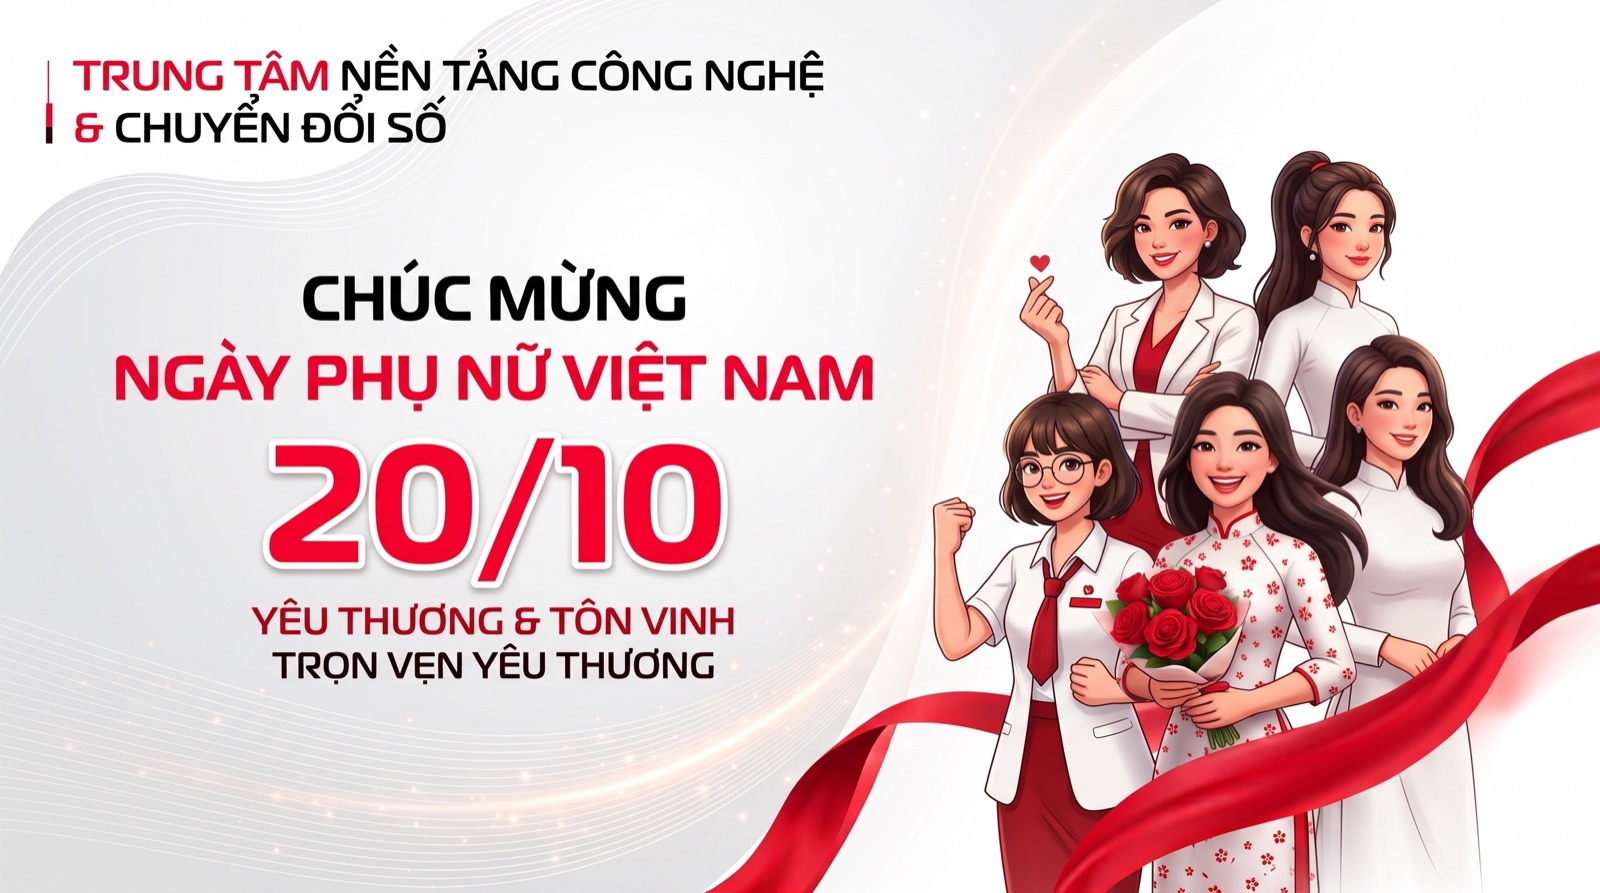
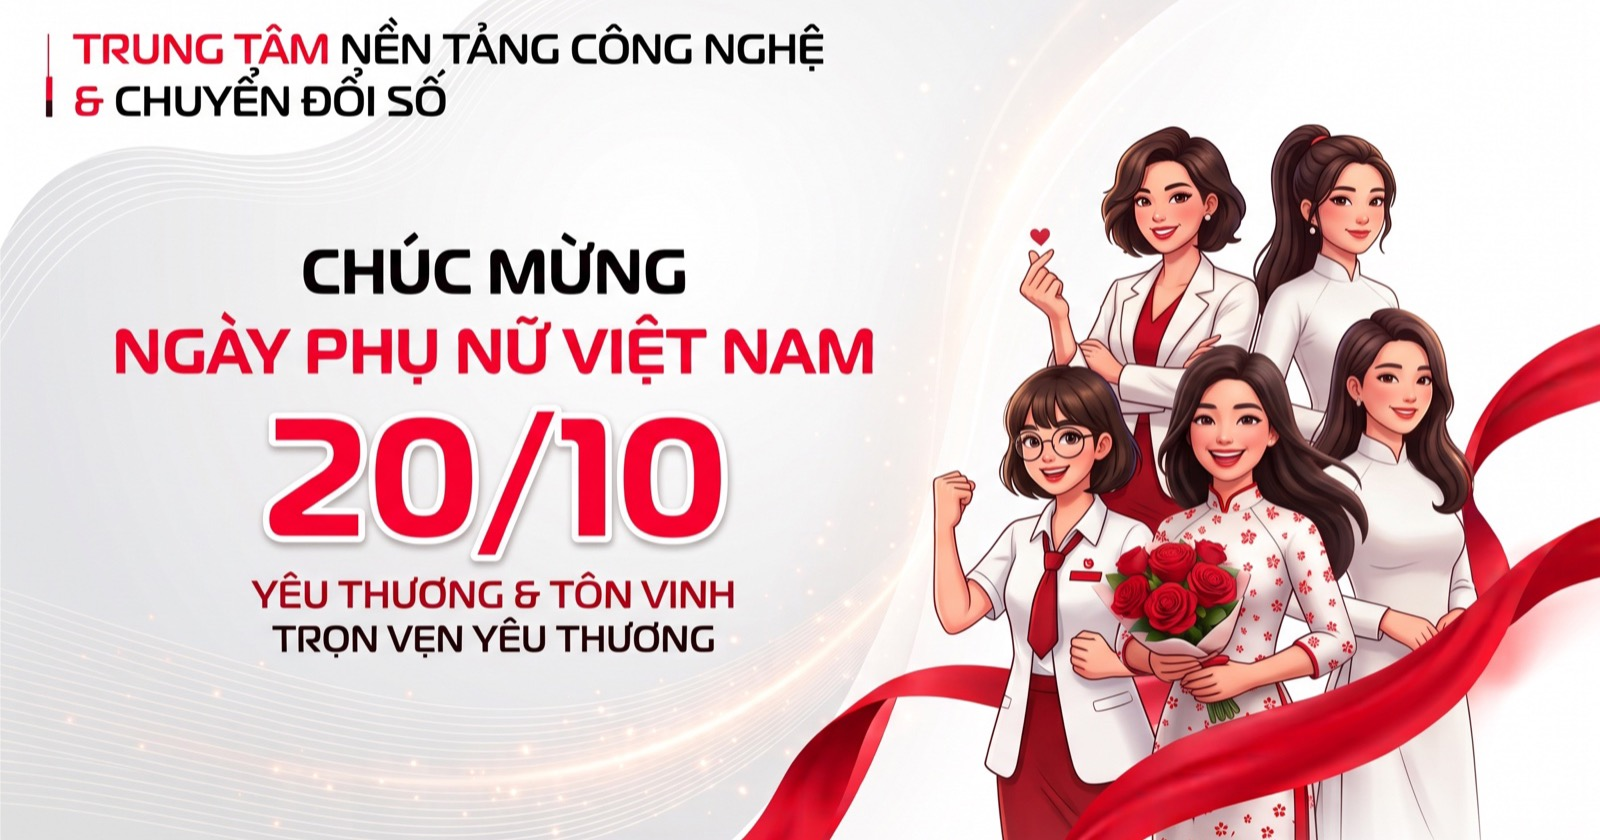
Thay ảnh tin Ngày Phụ nữ Việt Nam 20/10, cắt vừa khung TV

diff --git a/tv/content.js b/tv/content.js
@@ -23,7 +23,7 @@ window.TV = {
   //   image: 'img/...'  một poster tĩnh
   STORIES: [
     { id: 'phu-nu-20-10', tab: 'Ngày Phụ nữ Việt Nam', title: 'CHÚC MỪNG NGÀY PHỤ NỮ VIỆT NAM 20/10',
-      image: 'img/daily-2026-10-19.jpg', until: '2026-10-20',
+      image: 'img/daily-2026-10-19.jpg?v=2', until: '2026-10-20',
       ticker: 'Chúc mừng Ngày Phụ nữ Việt Nam 20/10 · Yêu thương & Tôn vinh' },
 
     { id: 'cloud', tab: 'Sinh nhật Viettel Cloud', title: 'Chúc mừng sinh nhật Viettel Cloud 4 tuổi', sub: '14/10/2022 đến 14/10/2026',
